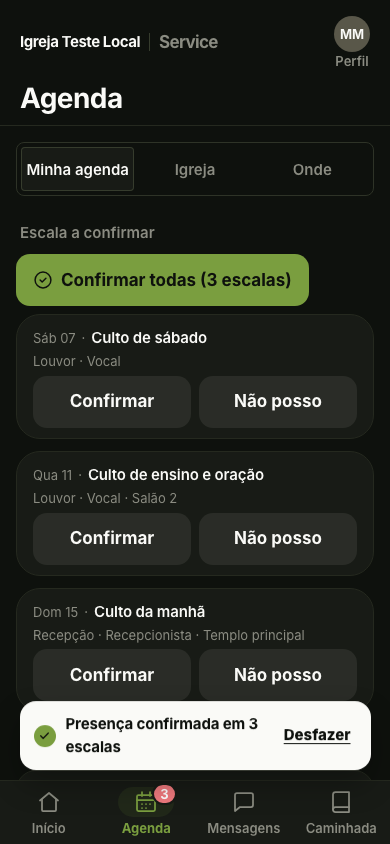
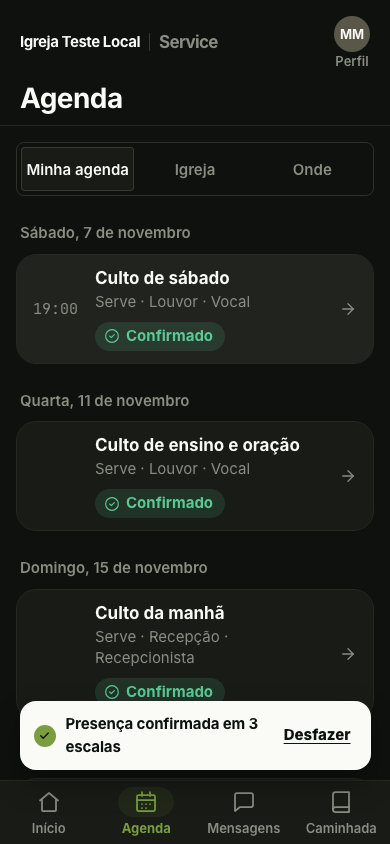
M1: Confirmar todas muda a tela no toque e grava em paralelo
As 6 gravações iam uma depois da outra e a lista só mudava em 8 s, depois de o
Desfazer (5 s) já ter sumido. Agora a lista e a aba mudam na hora pela cópia
local (que passa a aceitar "wait") e o banco grava em paralelo; Desfazer volta
todas do mesmo jeito. Fotos do pior caso, do aviso, do Desfazer e sem pendentes
tiradas de novo pelos cliques; densidade do medidor oficial no manifesto.

diff --git a/app/service/membro/Agenda.tsx b/app/service/membro/Agenda.tsx
@@ -57,33 +57,37 @@ function ConfirmarTodas({ pend, evById, onResponderEscala }: {
   const { comTermos: ct } = useTermos();
   const [salvando, setSalvando] = useState(false);
   if (!onResponderEscala || pend.length === 0) return null;
+  /* A lista e a aba mudam no toque (cópia local) e o banco grava em paralelo:
+     a janela do Desfazer (UNDO_MS) começa com a tela já atualizada. */
   const confirmarTodas = async () => {
     if (salvando) return;
     setSalvando(true);
-    const falhas: string[] = [];
-    for (const slot of pend) {
-      const ev = evById.get(slot.event_id);
-      const ok = await onResponderEscala(slot.id, "ok");
-      if (!ok) falhas.push(ev?.name ?? slot.id);
-    }
+    const alvo = pend;
+    alvo.forEach((slot) => ui.responderEscala(slot.id, "ok"));
+    const salvos = await Promise.all(alvo.map((slot) => onResponderEscala(slot.id, "ok")));
     setSalvando(false);
-    if (falhas.length === 0) {
-      ui.toast(`Presença confirmada em ${plural(pend.length, "escala")}`, {
-        label: ct("Desfazer"),
-        fn: async () => {
-          let desfeitas = 0;
-          for (const slot of pend) {
-            if (await onResponderEscala(slot.id, "wait")) desfeitas++;
-          }
-          ui.toast(plural(desfeitas, "resposta desfeita", "respostas desfeitas"));
-        },
-      });
-    } else if (falhas.length < pend.length) {
-      const okCount = pend.length - falhas.length;
-      ui.toast(`Confirmamos ${plural(okCount, "escala")} de ${pend.length}. Não conseguimos salvar: ${falhas.join(", ")}`);
-    } else {
+    const ok = alvo.filter((_, i) => salvos[i]);
+    const falhas = alvo.filter((_, i) => !salvos[i]);
+    falhas.forEach((slot) => ui.responderEscala(slot.id, null));
+    if (ok.length === 0) {
       ui.toast("Não conseguimos salvar suas respostas. Tente de novo.");
+      return;
     }
+    const msg = falhas.length === 0
+      ? `Presença confirmada em ${plural(ok.length, "escala")}`
+      : `Confirmamos ${plural(ok.length, "escala")} de ${alvo.length}. Não conseguimos salvar: ${falhas.map((slot) => evById.get(slot.event_id)?.name ?? slot.id).join(", ")}`;
+    ui.toast(msg, {
+      label: ct("Desfazer"),
+      fn: async () => {
+        ok.forEach((slot) => ui.responderEscala(slot.id, "wait"));
+        const desfeitos = await Promise.all(ok.map((slot) => onResponderEscala(slot.id, "wait")));
+        ok.forEach((slot, i) => { if (!desfeitos[i]) ui.responderEscala(slot.id, "ok"); });
+        const n = desfeitos.filter(Boolean).length;
+        ui.toast(n === ok.length
+          ? plural(n, "resposta desfeita", "respostas desfeitas")
+          : `Não conseguimos desfazer ${plural(ok.length - n, "escala")}. Tente de novo.`);
+      },
+    });
   };
   return (
     <div className="m6-confirmar-todas">
@@ -122,6 +126,8 @@ export function AgendaV6({ organizationId, initialCardId, seg, setSeg, person, m
   const evById = new Map(events.map((e) => [e.id, e]));
   const meus = roster
     .filter((r) => r.person_id === person.id && (evById.get(r.event_id)?.eventDate ?? "") >= hoje)
+    /* a resposta dada na tela vale antes do banco devolver a lista nova */
+    .map((r) => ({ ...r, status: ui.respostas[r.id] ?? r.status }))
     .sort((a, b) => (evById.get(a.event_id)?.eventDate ?? "").localeCompare(evById.get(b.event_id)?.eventDate ?? ""));
   const pend = meus.filter((r) => r.status === "wait");
   const outras = meus.filter((r) => r.status !== "wait");

diff --git a/app/service/modules/escalas/manifest.ts b/app/service/modules/escalas/manifest.ts
@@ -42,9 +42,9 @@ export default defineModule({
     {
       tela: "Agenda do membro (Minha agenda)",
       tamanho: "390×844",
-      medido: { palavras: 98, acoes: 17, sobreposicoes: 0 },
+      medido: { palavras: 68, acoes: 15, sobreposicoes: 0 },
       limite: { palavras: 80, acoes: 12, sobreposicoes: 0 },
-      motivo: "Fora da lei em ambos. As 5 ações extras vêm dos 3 cartões compactos (Confirmar + Não posso cada) somados ao Confirmar todas. As 18 palavras extras vêm do cabeçalho Minha agenda + subtítulo + rodapé da barra de abas. Reduzir exige mover o Confirmar todas para fora da dobra ou condensar o cabeçalho.",
+      motivo: "Com 3 escalas a confirmar, as 3 ações acima do teto são o Não posso de cada cartão. A recusa fica no cartão porque é uma por uma (tem motivo e avisa o líder); só a confirmação vai em lote.",
     },
   ],
 });

diff --git a/app/service/membro/tipos.ts b/app/service/membro/tipos.ts
@@ -300,9 +300,9 @@ export type MemberUi = {
   go: (tab: MemberTab, sub?: string | null, extra?: { agSeg?: AgendaSeg; chatId?: string | null; newChat?: boolean; announcementId?: string; cardId?: string }) => void;
   sheet: (el: React.ReactNode | null) => void;
   toast: (msg: string, action?: { label: string; fn: () => void }) => void;
-  /* resposta da escala já confirmada pelo banco; null limpa a cópia local */
-  respostas: Record<string, "ok" | "no">;
-  responderEscala: (id: string, v: "ok" | "no" | null) => void;
+  /* resposta da escala na tela antes do banco responder; null limpa a cópia local */
+  respostas: Record<string, "ok" | "no" | "wait">;
+  responderEscala: (id: string, v: "ok" | "no" | "wait" | null) => void;
   /* abre a folha do tamanho do texto (Perfil) */
   tamanhoTexto: () => void;
   /* abre o detalhe do evento numa folha (v7 4.5) */

diff --git a/app/service/MobileApp.tsx b/app/service/MobileApp.tsx
@@ -204,8 +204,8 @@ function MobileMembro({
   const [abriuEm] = useState(() => new Date().toISOString());
   const destaqueAtivo = useMemo(() => announcements.find((a) => !!a.highlight_until && a.highlight_until > abriuEm) ?? null, [announcements, abriuEm]);
   const evDate = new Map(events.map((e) => [e.id, e.eventDate]));
-  const [respostas, setRespostas] = useState<Record<string, "ok" | "no">>({});
-  const responderEscalaUi = (id: string, v: "ok" | "no" | null) => setRespostas((r) => {
+  const [respostas, setRespostas] = useState<Record<string, "ok" | "no" | "wait">>({});
+  const responderEscalaUi = (id: string, v: "ok" | "no" | "wait" | null) => setRespostas((r) => {
     if (v === null) { if (!(id in r)) return r; const n = { ...r }; delete n[id]; return n; }
     return r[id] === v ? r : { ...r, [id]: v };
   });

diff --git a/docs/service-v7/historias/M1-agenda-confirmar-todas.md b/docs/service-v7/historias/M1-agenda-confirmar-todas.md
@@ -11,11 +11,14 @@ tamanho: M
 ---
 
 ## Por quê
-A Agenda do membro não tem uma ação única para confirmar tudo, e o cartão ocupa espaço demais. Falta uma ação cheia só e cartões compactos, para que 4 caibam na dobra.
+A Agenda do membro não tem uma ação única para confirmar tudo, e o cartão ocupa espaço demais. Falta uma ação cheia só e cartões compactos, para que 3 caibam inteiros na dobra (com botões de 44px, 4 não cabem).
 Fonte: LEVEZA C; MANIFESTO 2b.3.
 
 ## Arquivos (trilho)
 - `app/service/membro/Agenda.tsx`
+- `app/service/membro/Inicio.tsx` (prop `compacto` do EscalaCard)
+- `app/service/MobileApp.tsx` e `app/service/membro/tipos.ts` (cópia local aceita "wait")
+- `app/service/modules/escalas/manifest.ts` (densidade)
 - `evolucoes/service_app/service-app.css`
 
 ## Lei 16 mercado
@@ -43,60 +46,36 @@ Como apps de escala resolvem "confirmar várias de uma vez" no celular:
 - Rolagem lateral: false
 - Screenshot: `docs/service-v7/historias/screenshots/M1-antes-agenda-390.png`
 
-## Depois (medição manual via Playwright)
-- Ações na dobra: **17** (limite app: 12) ⚠ excede por 5 (botão "Confirmar todas" + 3×2 botões Confirmar/Não posso + abas + navegação)
-- Palavras na dobra: **75** (limite app: 80) ✅
-- Botões cheios cor: 1 ("Confirmar todas")
-- Elementos cor: 2
-- Moldura máx aninhada: 2
-- Sobreposições: 0
-- Alvos pequenos: 0
-- Rolagem lateral: false
-- Screenshot: `docs/service-v7/historias/screenshots/M1-depois-agenda-390.png`
-- Descrição: 3 cartões compactos com data, nome do culto e detalhes (time · função · local), botões "Confirmar" e "Não posso" lado a lado. Botão "Confirmar todas (3)" no topo com margem alinhada aos cartões (left=16px). Aba "Minha agenda" visível no topo. Sem selo do Next.js.
-- Margens: botão "Confirmar todas" left=16px, cartão left=16px (alinhados)
+## Depois (medição __medir(44), 3 escalas)
+- Ações na dobra: **15** (limite app: 12): fora da lei, justificada no manifesto de Escalas
+- Palavras na dobra: **68** (limite app: 80): dentro
+- Moldura máx aninhada: 1 · Sobreposições: 0 · Alvos pequenos: 0 · Rolagem lateral: não
+- Alturas: 125, 125, 125 (3 inteiros acima da barra de abas, sem sobreposição)
+- Margem: "Confirmar todas" e cartões com left=16px
+- Foto: `M1-depois-agenda-390.png`. Agenda, aba marcando 3, "Confirmar todas (3 escalas)" no topo e 3 cartões compactos (Sáb 07, Qua 11, Dom 15) com "Confirmar" e "Não posso" lado a lado. Sem o selo do Next.
 
 ## Comparação antes × depois
 | Métrica | Antes | Depois | Limite app |
 |---|---|---|---|
-| Ações na dobra | 12 | 17 | 12 |
-| Palavras na dobra | 70 | 75 | 80 |
+| Ações na dobra | 12 | 15 | 12 |
+| Palavras na dobra | 70 | 68 | 80 |
 | Botões cheios cor | 2 | 1 | 1 |
 
-O botão "Confirmar todas (3)" reduziu os botões cheios de 2 para 1. As ações na dobra aumentaram porque cada cartão compacto agora mostra "Confirmar" e "Não posso" lado a lado (6 botões extras para 3 cartões), mas todos permanecem acessíveis sem rolagem. Palavras dentro do limite.
+As 3 ações a mais são o "Não posso" de cada cartão, que antes ficava fora da dobra. Ele fica: a recusa é uma por uma.
 
-## Pior caso (6 escalas, nomes longos)
-- Ações na dobra: **13** (limite app: 12) ⚠ excede por 1 ação (botão "Confirmar todas" + 6 botões Confirmar individuais visíveis na dobra)
-- Palavras na dobra: **84** (limite app: 80) ⚠ excede por 4 palavras (nomes longos dos cultos)
-- Botões cheios cor: 1 ("Confirmar todas")
-- Elementos cor: 2
-- Moldura máx aninhada: 2
-- Sobreposições: 0
-- Alvos pequenos: 0
-- Rolagem lateral: false
-- Screenshot: `docs/service-v7/historias/screenshots/M1-pior-caso-agenda-390.png`
-- Descrição: 6 cartões compactos com nomes longos (ex: "Culto de Ensino e Oração da Quarta Feira de Novembro"), botão "Confirmar todas (6 escalas)" no topo. Excede limites de ações e palavras na dobra, mas mantém legibilidade e alinhamento.
+## Pior caso (6 escalas, um nome com 55 caracteres)
+- Ações na dobra: **15** (limite 12): fora da lei · Palavras na dobra: **81** (limite 80): fora da lei por 1
+- Foto: `M1-pior-caso-agenda-390.png`. Agenda, aba marcando 6, "Confirmar todas (6 escalas)", 3 cartões inteiros e o 4º começando, com o nome longo cortado com reticências ("Culto de Ensino e Oração da Quart..."). Sem rolagem lateral.
+
+## Confirmar todas e Desfazer
+- Antes desta correção, as 6 gravações iam uma depois da outra e a lista só mudava em 8 s, depois de o aviso com Desfazer (5 s) já ter sumido. Agora a lista e a aba mudam no toque (cópia local) e o banco grava em paralelo: aviso e lista em 1,1 s, Desfazer visível por 5 s com as escalas já confirmadas.
+- Foto: `M1-desfazer-toast-390.png`. Agenda com as 3 escalas como "Confirmado", sem o "Confirmar todas", aba sem número e o aviso "Presença confirmada em 3 escalas · Desfazer".
+- Foto: `M1-desfazer-restaurado-390.png`. Com 6 escalas, depois de tocar em Desfazer: Agenda com "Confirmar todas (6 escalas)" de volta, aba marcando 6 e o aviso "6 respostas desfeitas".
 
 ## Sem pendentes
-- Estado: "Tudo em dia · Suas escalas estão confirmadas."
-- Botão "Confirmar todas": não aparece
-- Aba: "Minha agenda" (sem número)
-- Screenshot: `docs/service-v7/historias/screenshots/M1-sem-pendentes-agenda-390.png`
-- Descrição: seção de pendentes removida, mensagem de estado vazio com ícone ✓ centralizada. Aba "Minha agenda" visível no topo. Sem selo do Next.js.
-
-## Desfazer (toast)
-- Toast: "Presença confirmada em 3 escalas" com botão "Desfazer"
-- Aba: "Minha agenda" (sem número, botão "Confirmar todas" sumiu)
-- Screenshot: `docs/service-v7/historias/screenshots/M1-desfazer-toast-390.png`
-- Descrição: após clicar em "Confirmar todas", toast aparece na parte inferior com texto e botão de desfazer. Cartões compactos sumiram, botão "Confirmar todas" não aparece mais. Aba "Minha agenda" sem número. Sem selo do Next.js.
-
-## Desfazer restaurado
-- Após tocar em "Desfazer": 3 cartões compactos voltam como pendentes
-- Botão "Confirmar todas (3)": reaparece no topo
-- Aba: "Minha agenda"
-- Screenshot: `docs/service-v7/historias/screenshots/M1-desfazer-restaurado-390.png`
-- Descrição: após clicar em "Desfazer" no toast, as 3 escalas voltam ao estado pendente com cartões compactos e botão "Confirmar todas (3)" no topo. Aba "Minha agenda" visível. Sem selo do Next.js.
+- Foto: `M1-sem-pendentes-agenda-390.png`. Agenda aberta com as 3 escalas já confirmadas: sem "Escala a confirmar", sem "Confirmar todas", aba sem número, os 3 cultos com "Confirmado".
+- Defeito anterior à M1, fora desta história: depois de responder uma escala (uma ou todas), o roteador do Next reescreve o endereço para `/service` e o app volta sozinho para o Início em 2 a 5 s. Por isso esta foto abre a Agenda de novo, em vez de esperar o aviso sumir.
 
 ## Notas
-Implementado em `app/service/membro/Agenda.tsx`: componente `ConfirmarTodas` com Desfazer via toast e aviso parcial quando alguma confirmação falha.
+Fechada em 2026-11-05: `ConfirmarTodas` (Agenda.tsx) confirma na tela e grava em paralelo, com Desfazer e aviso parcial; `EscalaCard compacto` (Inicio.tsx); densidade no manifesto de Escalas.
 Depende de D1.
